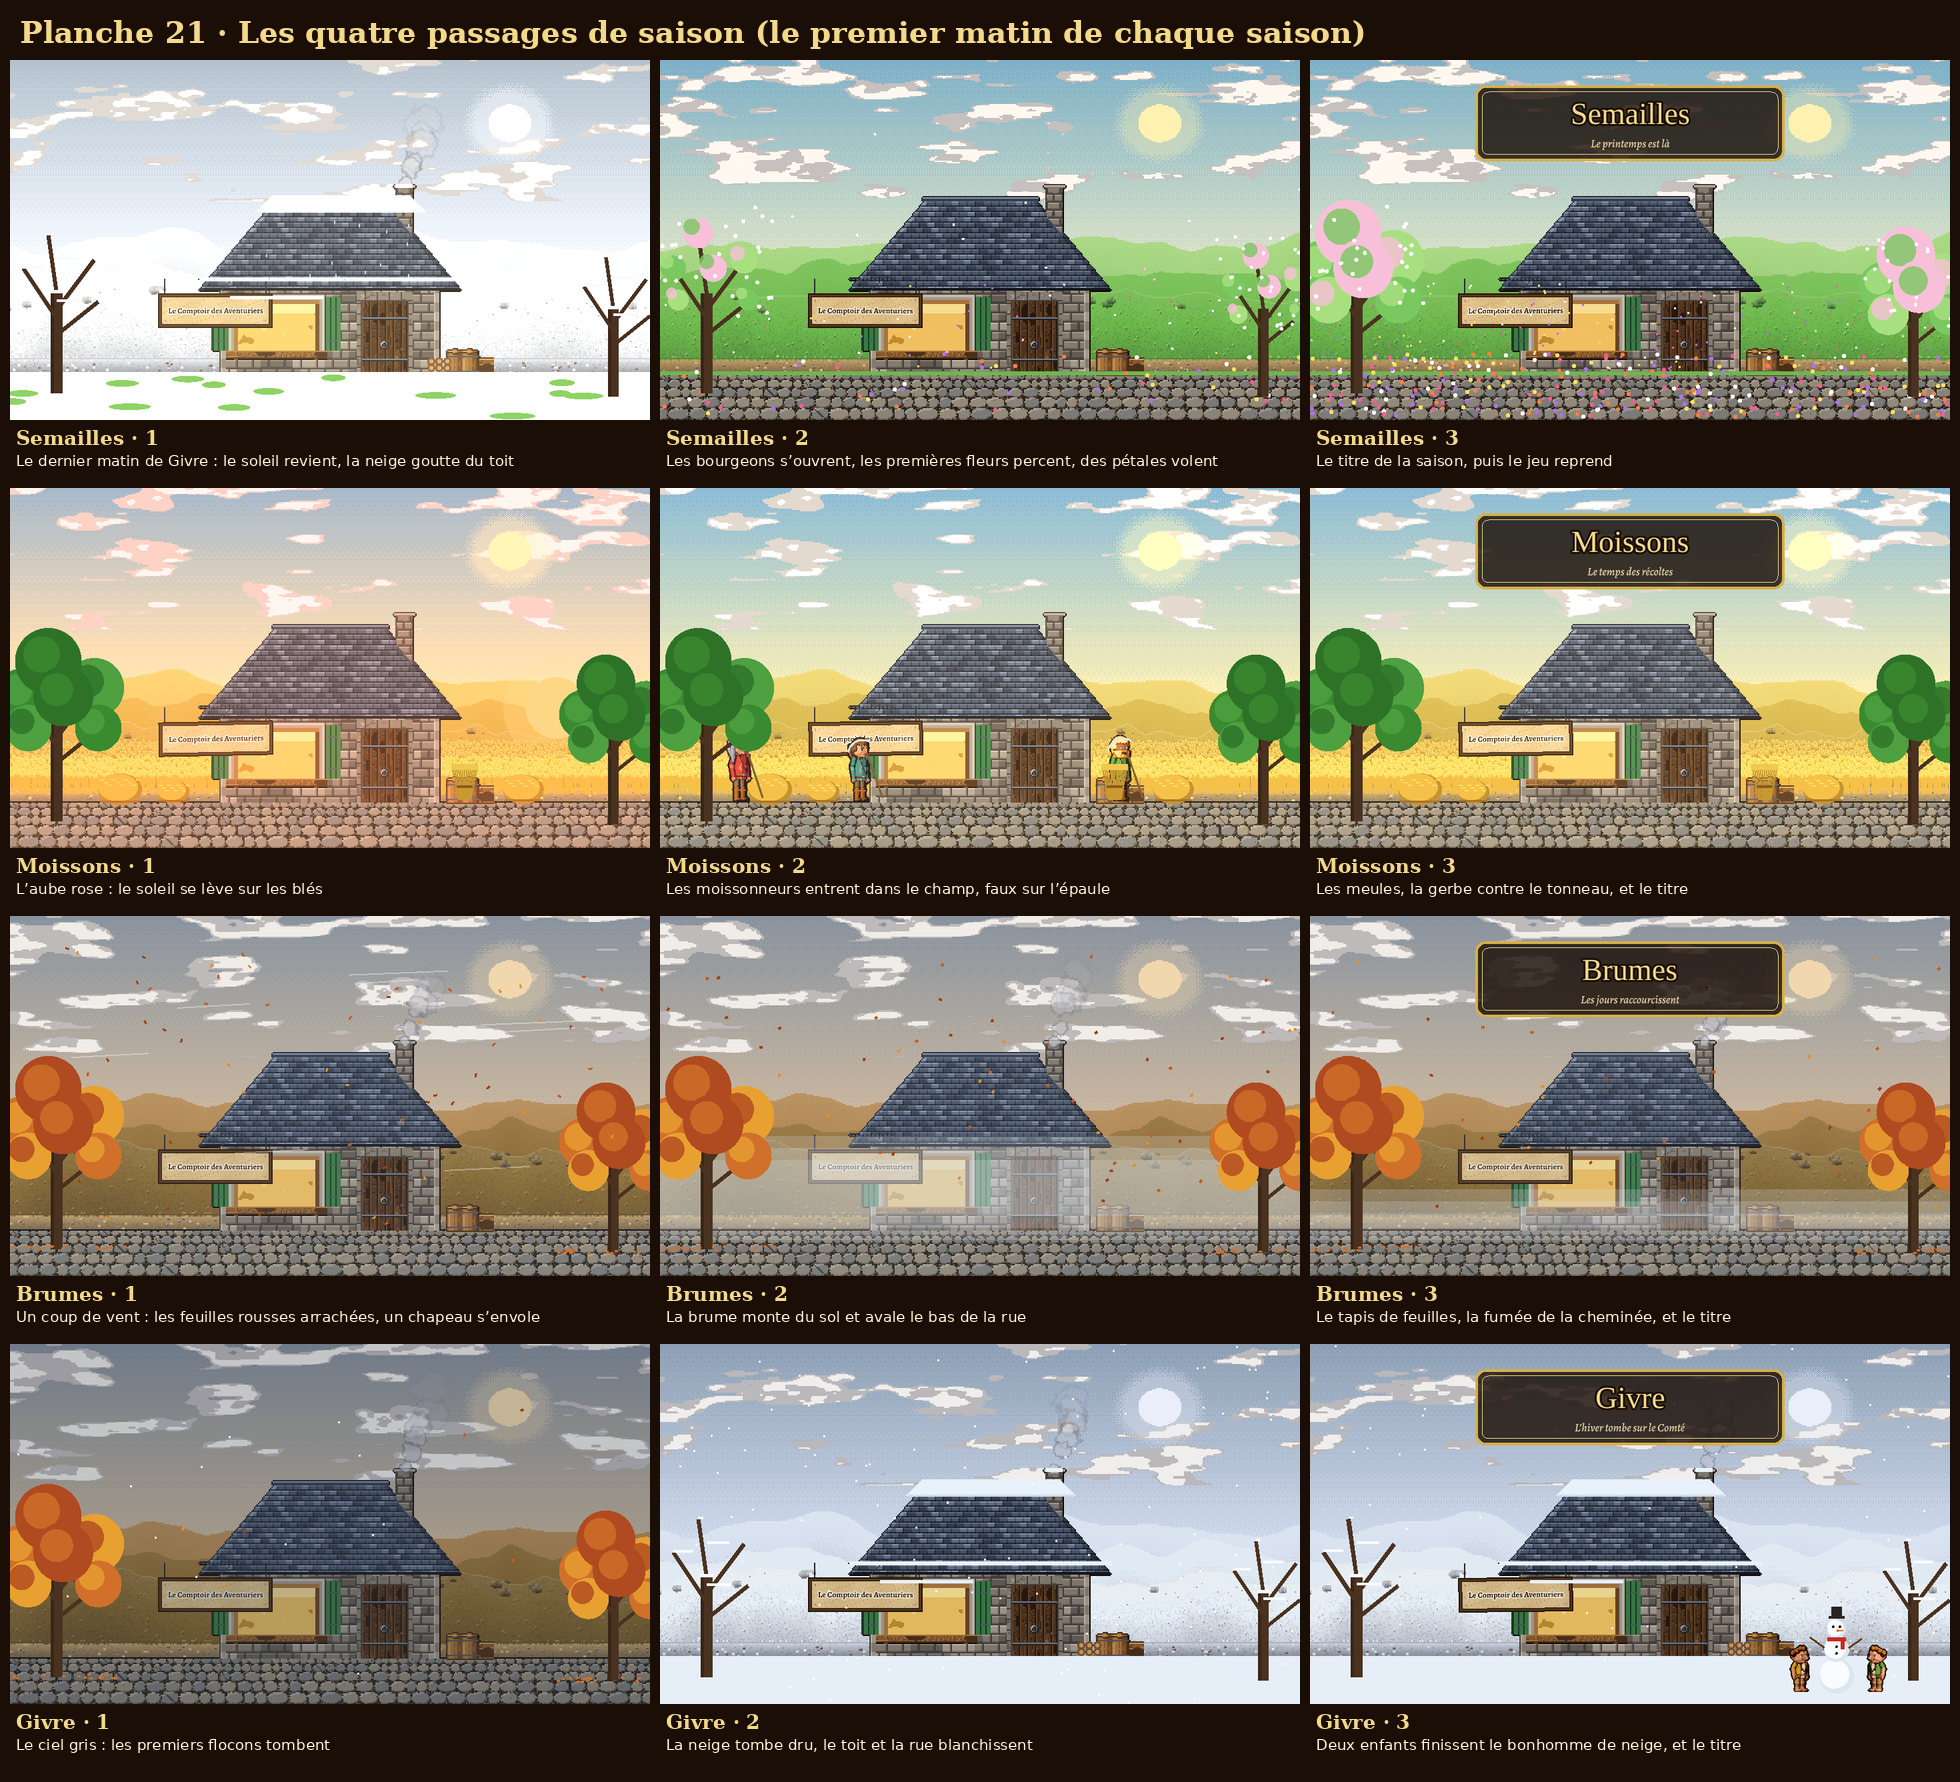
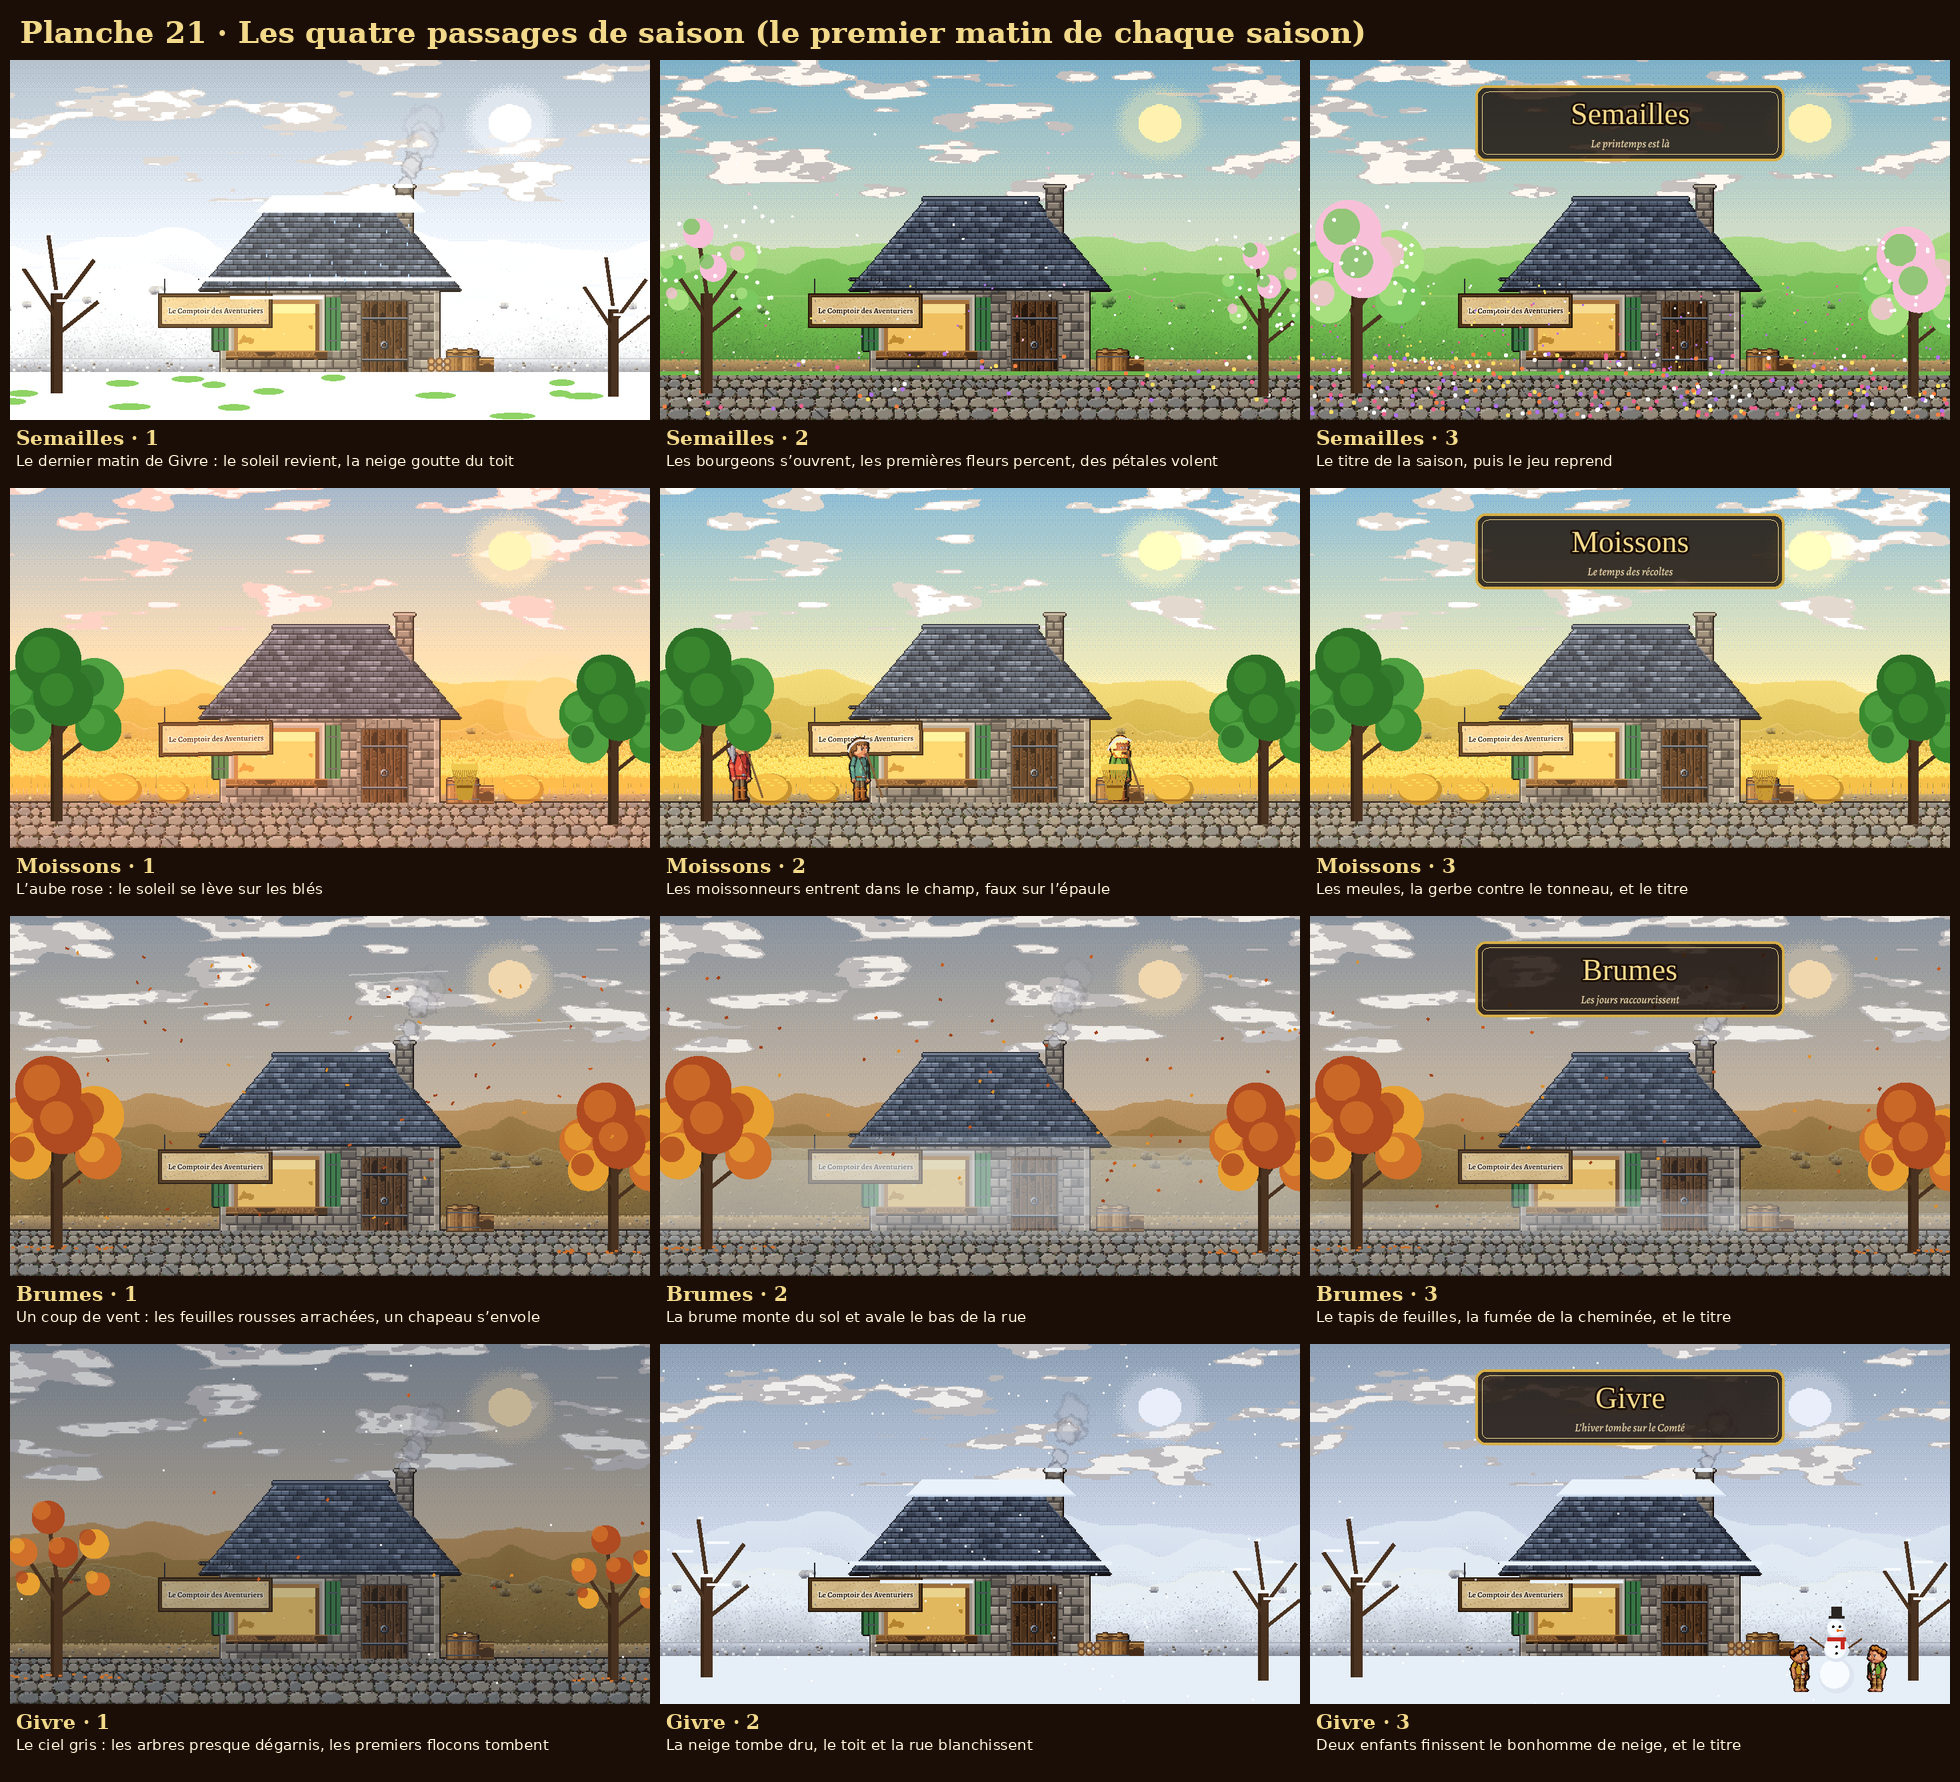
Planches 21 et 22 retouchées ; GDD : retours sur les planches, prix des saisons, alchimie plus tard
Claude-Session: https://claude.ai/code/session_018kbaP56NxxNMUzmj9EfKBC

Changed region(s): [[0.2801, 0.8333, 0.3423, 0.9259], [0.0, 0.8333, 0.0622, 0.9259], [0.0934, 0.9568, 0.1556, 0.9877]]

diff --git a/docs/game-design.md b/docs/game-design.md
@@ -1320,3 +1320,22 @@ On pousse sur Cloudflare après ces préparatifs et le grand house keep de la nu
   parlent que le chat**.
 - Il aimerait retrouver **son vrai nom**, mais **le nom que JeuneGoy lui a donné lui plaît bien**.
 - À placer avec la quête du chat amoureux (après le lot B) ; à peaufiner avec le joueur.
+
+### Retours du joueur sur les planches 21 à 25 (17/10)
+- **Planche 21 validée** (Givre · 1 retouché : les arbres presque dégarnis avant d'être nus).
+- **Planche 22 validée** avec, dans la salle de la Nuit des Brumes, **des lanternes rouges partout** (à la
+  chinoise) : la tradition des Bannis pour **honorer les ancêtres**.
+- **Planche 23 validée.** La diseuse (Madame Ysmée) reste un mystère : **personne ne sait son vrai âge,
+  d'où elle vient, son réel but, ni si elle a vraiment des pouvoirs** (à creuser plus tard, peut-être).
+- **Planches 24 et 25 validées.**
+- **Les prix des saisons, revus** (idée du joueur : ce qui manque coûte plus cher, pas moins) :
+  - Semailles : les **cordes +10 %** (les crues) ; les **potions −10 %** (les herbes fraîches du printemps).
+  - Moissons : les **gourdes +10 %** (l'eau est rare) ; les **rations −10 %** (la récolte).
+  - Brumes : les **potions +10 %** (moins de plantes à cueillir dans les bois).
+  - Givre : les **capes chaudes +10 %**.
+  Claude a gardé une petite baisse au printemps et l'été (ce qui abonde vraiment) pour que chaque saison
+  ait une bonne et une mauvaise nouvelle au marché ; l'automne et l'hiver n'en ont pas (les saisons dures).
+- **Plus tard : l'atelier d'alchimie**, pour les potions, avec le même principe que la forge (inspiré de
+  l'atelier d'alchimie de *Kingdom Come: Deliverance 2* : la recette pas à pas, les ingrédients, le
+  chaudron, le temps de cuisson) ; **un seul employé** possible à engager pour les potions.
+
